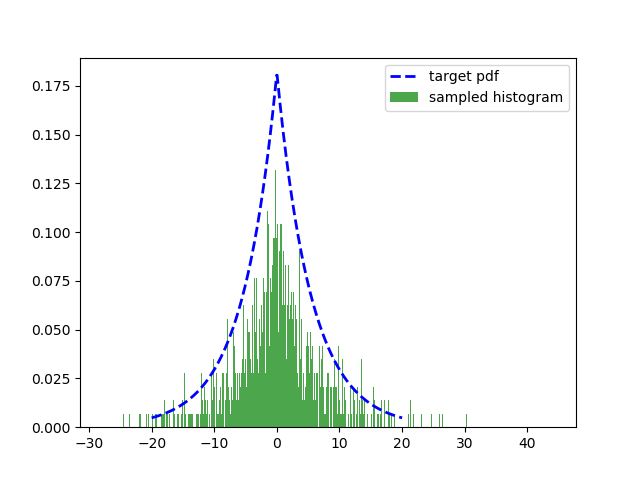
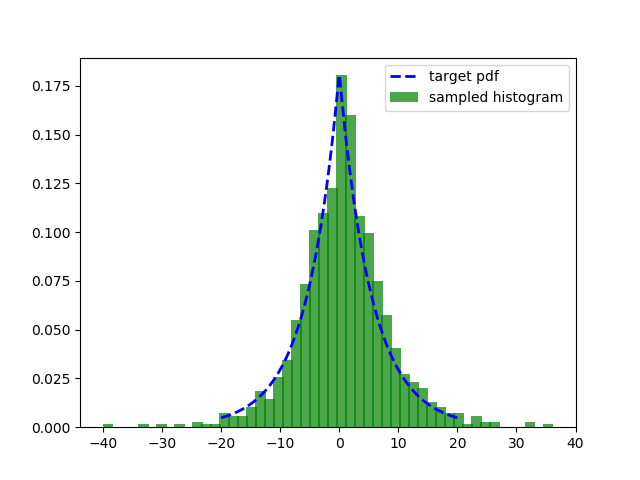
gibbs and MH

diff --git a/pgm/inference/Gibbs.py b/pgm/inference/Gibbs.py
@@ -47,8 +47,11 @@ class GibbsSampler(object):
         p = self.getConditional(x_next, ii, jj)
         
         # sample xij
-        x_next[ii, jj] = x_next[ii, jj] if p > np.random.uniform(0,1) else 1 - x_next[ii, jj]
 
+        for _ in range(self.burninT):
+            xn = x_next[ii, jj] if p > np.random.uniform(0,1) else 1 - x_next[ii, jj]
+        
+        x_next[ii, jj] = xn
         self.visited[ii, jj] = 1.0
 
         x_next = self.localSampler(x_next, ii-1, jj)
@@ -91,11 +94,9 @@ class GibbsSampler(object):
         """
         """
         while True:
-            for i in range(self.burninT):
-                ii = np.random.randint(0, self.Xnodes)
-                jj = np.random.randint(0, self.Ynodes)
-                x_next = self.Proposal(ii, jj)
-                self.x = x_next
+            ii = np.random.randint(0, self.Xnodes)
+            jj = np.random.randint(0, self.Ynodes)
+            self.x = self.Proposal(ii, jj)
             self.x_seq.append(self.x)
             yield self.x
                 
@@ -108,19 +109,19 @@ if __name__ == '__main__':
                           (0,0): 1,
                           (1,0): 1,
                           (0,1): 1}
-    gs = GibbsSampler(local_distribution, 1, 16, 16)
+    gs = GibbsSampler(local_distribution, 10, 24, 24)
     
-    epochs = 1
+    epochs = 10
     for i in range(epochs):
         x = next(gs.sampler())
         plt.clf()
         plt.imshow(x)
         plt.show()
 
-    plt.clf()
-    plt.plot(gs.count_seq)
-    plt.xlabel("mixture progression")
-    plt.ylabel("count")
-    plt.title("Epoch: {}".format(i))
-    plt.show()
+        plt.clf()
+        plt.plot(gs.count_seq)
+        plt.xlabel("mixture progression")
+        plt.ylabel("count")
+        # plt.title("Epoch: {}".format(i))
+        plt.show()
 

diff --git a/examples/assignment3/MH.py b/examples/assignment3/MH.py
@@ -32,6 +32,7 @@ function = Gamma(theta=5.5, k=1)
 sigma = [0.1, 1.0, 2.0]
 burnin = [2, 5, 10, 100, 200]
 
+"""
 for sig in sigma:
     for _burnin in burnin: 
         proposalDist, proposalSamp = proposalDistribution(sig)
@@ -50,15 +51,26 @@ for sig in sigma:
 x = np.linspace(-20, 20, 500)
 fx = function(x)
 
+proposalDist, proposalSamp = proposalDistribution(sigma = 2.0)
+mh = MH(function, 100, proposalDist, proposalSamp)
+for _ in range(1000):
+    next(mh.sampler())
 
-
+sampledvalues = np.array(mh.x_seq)
 plt.plot(x, fx, 'b--', linewidth=2.0)
-plt.hist(sampledvalues, 500, density=True, facecolor='g', alpha=0.7, linewidth=0)
+
+hist = np.histogram(sampledvalues, bins=50)
+x = hist[1][1:]
+hist = hist[0]
+print(hist.shape, x.shape)
+hist = hist*np.max(fx)/np.max(hist)
+plt.bar(x, hist, color = 'g', width=1.8, alpha=0.7)
+# plt.hist(sampledvalues, 50, density=True, stacked=True, facecolor='g', alpha=0.7, linewidth=0)
 plt.legend(['target pdf', 'sampled histogram'])
 plt.show()
 
 plt.plot(sampledvalues, linewidth=2.0)
 plt.ylim(-20.0, 20.0)
 plt.show()
-"""
+
 
